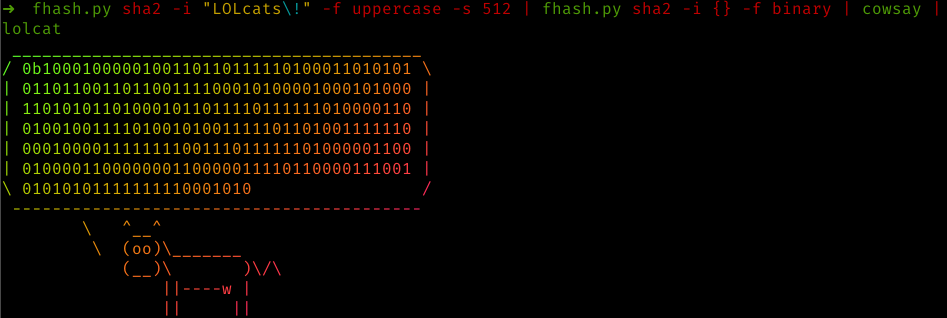
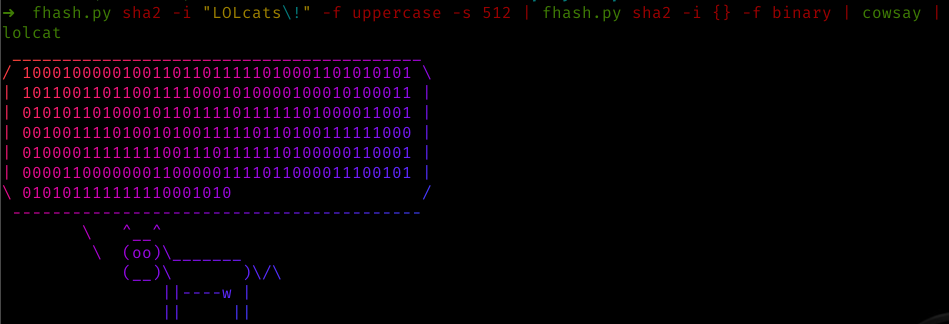
Update binary output to omit the trailing 0b

diff --git a/fhash.py b/fhash.py
@@ -97,7 +97,8 @@ def formatOutput(msg, fmt):
     elif(fmt == 'uppercase'):
         return msg.upper()
     elif(fmt == 'binary'):
-        return '{}'.format(bin(int(msg, 16)))
+                                            #Omit the trailing 0b
+        return '{}'.format(bin(int(msg, 16))[2:].zfill(8))
     elif(fmt == 'decimal'):
         return str(int(msg, 16))
     else:
